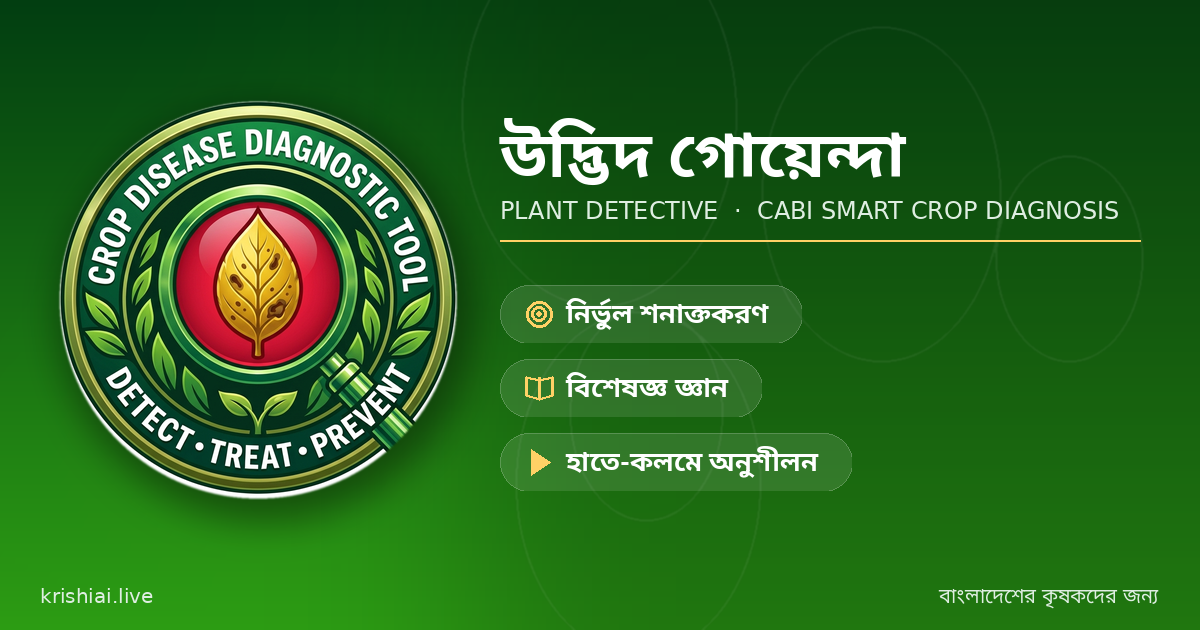
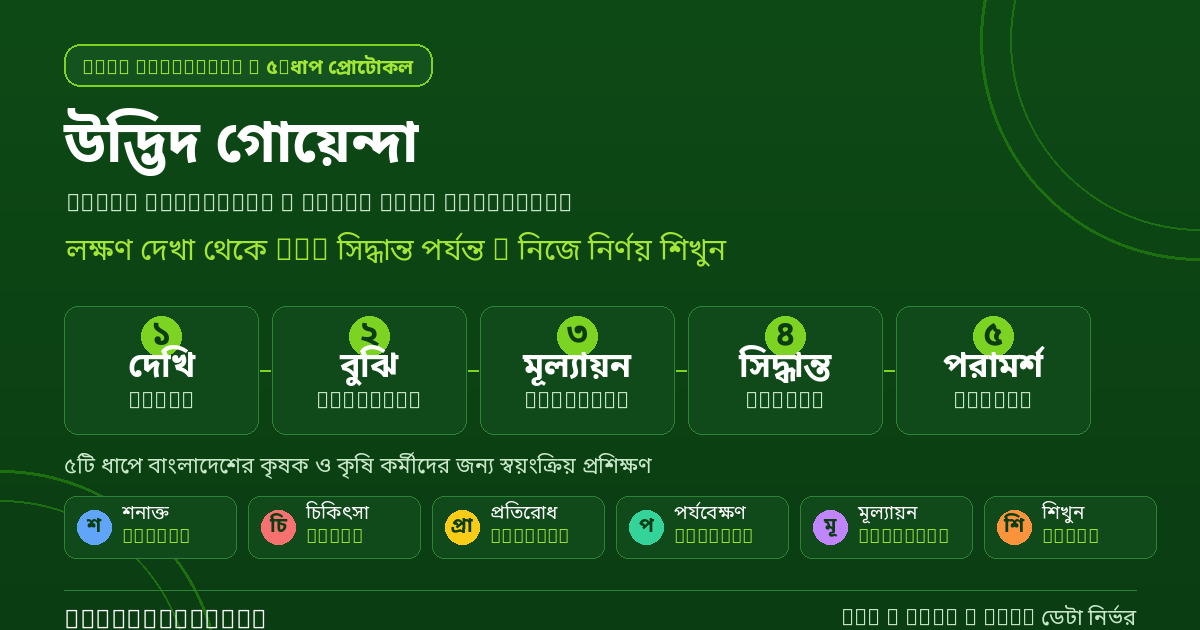
fix: learning-journey repairs, prevent tab in nav, refreshed og-image (#72)
Verified PR #71 features end-to-end in a headless browser (profile save,
personal + area risk radar, BAMIS links, prevention plan, chemical-advice
filter — 0 leaks in 42 items). Three gaps found and fixed:

1. Learn hub pillar progress was never recorded — trackPillar() existed
   but no caller. Wired into the pillar tab buttons and jumpToPillar();
   'X/4 স্তম্ভ' now updates and persists across reloads.
2. 'প্রতিরোধ' (PreventionPlan) was unreachable from the bottom nav —
   only via the Home seasonal-alert card. Added as a 7th nav tab
   (verified no overflow at 375px and 1280px).
3. No bridge from learning to practice — added an 'এখন নিজে নির্ণয় করুন'
   CTA in the 5-step protocol header that jumps to the শনাক্ত tab.

og-share.png regenerated (was 20 PRs stale, from the PR #35 era) to
match the repo About section: 5-step Plantwise protocol strip, 6 pillar
chips (DETECT→TREAT→PREVENT→MONITOR→EVALUATE→LEARN), bilingual, same
brand greens. Generator: scripts/generate_og_image.py.

Verified: 548/548 tests, eslint clean, prettier clean, build 9.96s,
all three fixes browser-tested.

diff --git a/src/components/UnifiedLearnResourceHub.jsx b/src/components/UnifiedLearnResourceHub.jsx
@@ -536,6 +536,7 @@ export default function UnifiedLearnResourceHub({
   // Helper to jump across pillars with targeted context
   const jumpToPillar = (pillarId, subOption = null) => {
     setActivePillar(pillarId);
+    trackPillar(pillarId);
     if (pillarId === "audiovisuals") {
       setMediaSection("video");
       if (subOption) setActiveVideoCategory(subOption);
@@ -995,6 +996,7 @@ export default function UnifiedLearnResourceHub({
               key={p.id}
               onClick={() => {
                 setActivePillar(p.id);
+                trackPillar(p.id);
                 if (p.id === "practice") setActiveGameId(null);
               }}
               style={{
@@ -1296,7 +1298,7 @@ export default function UnifiedLearnResourceHub({
                     cursor: "pointer",
                   }}
                 >
-                  🎬 নির্ণয় ভিডিও
+                  🎬 নির্ণয় ভিডিও
                 </button>
                 <button
                   onClick={() => jumpToPillar("practice", "symptom-spotter")}
@@ -1313,6 +1315,23 @@ export default function UnifiedLearnResourceHub({
                 >
                   🎮 প্র্যাকটিস গেম
                 </button>
+                {setActiveTab && (
+                  <button
+                    onClick={() => setActiveTab("diagnose")}
+                    style={{
+                      background: C.primary,
+                      border: "none",
+                      padding: "6px 12px",
+                      borderRadius: 10,
+                      fontSize: 11.5,
+                      fontWeight: 700,
+                      color: "#fff",
+                      cursor: "pointer",
+                    }}
+                  >
+                    🔬 এখন নিজে নির্ণয় করুন
+                  </button>
+                )}
               </div>
             </div>
 

diff --git a/src/App.jsx b/src/App.jsx
@@ -8390,8 +8390,9 @@ ${offlineResult.ipmRecommendations.prevention.map((item, idx) => `${idx + 1}. ${
     { id: "risk", label: "ঝুঁকি", icon: "⚠" },
     { id: "calendar", label: "মৌসুম", icon: "📅" },
     { id: "diagnose", label: "শনাক্ত", icon: "🔬" },
+    { id: "prevent", label: "প্রতিরোধ", icon: "🛡" },
     { id: "learn", label: "শিখুন", icon: "📖" },
-    { id: "pesticide", label: "সুরক্ষা", icon: "🛡" },
+    { id: "pesticide", label: "সুরক্ষা", icon: "💊" },
   ];
   const feedbackContext =
     activeTab === "risk"
